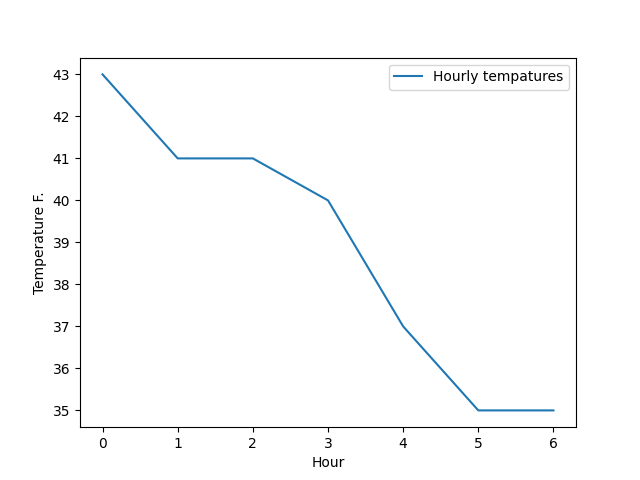
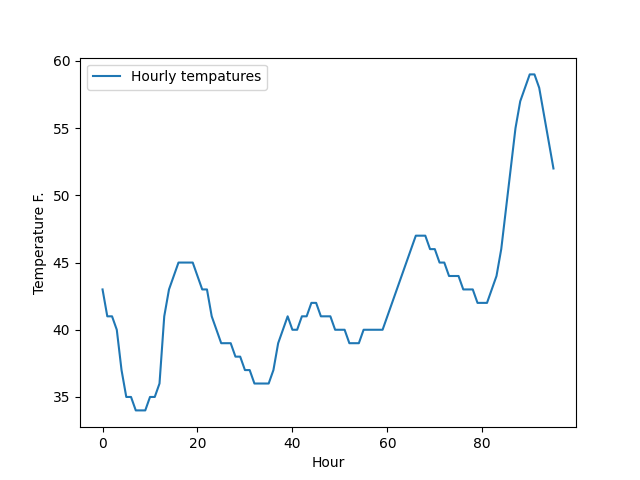
Improve README

diff --git a/lab2/lab2.py b/lab2/lab2.py
@@ -56,12 +56,13 @@ def main():
     # parse json
     js = loads(final_response.text)
 
+    # get temps from the last 4 days
     tempList = []
-    for i in range(12):
+    for i in range(96):
         tempList.append(js["properties"]["periods"][i]["temperature"])
 
     # print the list to check against graph
-    print(f"Weather data: {tempList}")
+    # print(f"Weather data: {tempList}")
 
     # do actual plotting
     plot_temps(tempList)

diff --git a/lab2/README.md b/lab2/README.md
@@ -14,7 +14,7 @@
 
 ## Program description
 
-This program creates a graph showing the temperatures from the last 12 hours based on the latitude, longitude inputted in the command line.
+This program creates a graph showing the temperatures from the last 4 days based on the latitude, longitude inputted in the command line.
 
 ## Questions
 
@@ -24,18 +24,18 @@ This program creates a graph showing the temperatures from the last 12 hours bas
 
 2. What is a RESTful API?
 
-- It is a style used for making networking applications. One can use various HTTP methods in order to utilize online resouces such as GET, POST, PUT, PATCH, and DELETE.
+- It is a style used for making networking applications. One can use various HTTP methods to utilize online resources such as GET, POST, PUT, PATCH, and DELETE.
 - Were the APIs we used RESTful?
-  -- Yes, they were. We used a couple of get requests from select url endpoints to get the data we needed.
+  -- Yes, they were. We used a couple of GET requests from select URL endpoints to get the data we needed.
 
 3. What is JSON?
 
-- JSON is a style of object notation for javascript; however, it can be utilized by any language that can access REST APIs. It provides data in string format so it can be easily consumed by programs in order to use the data further.
+- JSON is a style of object notation for JavaScript; however, it can be utilized by any language that can access REST APIs. It provides data in string format so it can be easily consumed by programs to use the data further.
 - Did these APIs use JSON?
-  -- These APIs provided us with JSON in response to the get requests.
+  -- These APIs provided us with JSON in response to the GET requests.
 
 4. What is Bash?
 
-- Bash processes commands from the command line and also process these commands through a script file.
+- Bash processes commands from the command line and can also process these commands through a script file.
 - Have you ever used Bash?
-  -- Yes, even though the syntax is annoying.
+  -- Yes, even though the syntax can be annoying at times.
